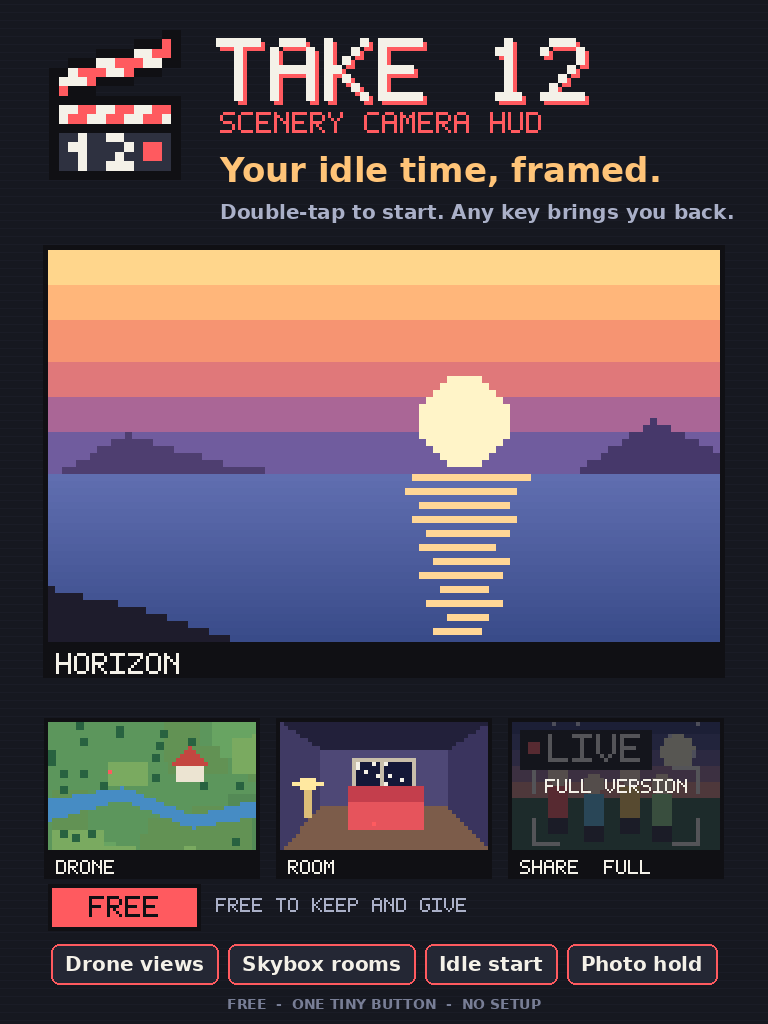
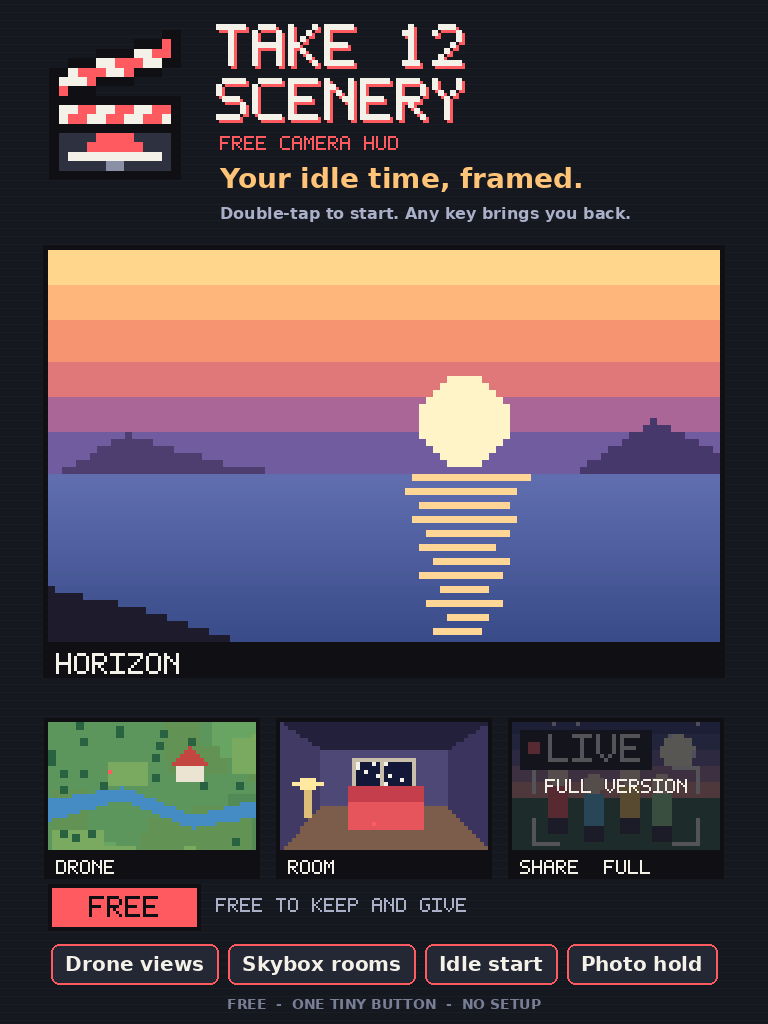
Take 12 Scenery: its own button, a sun setting on the slate
- make_icon.py: draw_scenery() (the Rec clapper with a coral sun on a chalk
  horizon in place of the 12), scenery/art sheet (one design in every look
  column, Take 12's layout) and a 128 px icon
- the free build leaves out the Button choice under Options > Look
- free boards: the sun clapper and TAKE 12 / SCENERY in two big lines
- docs and checks (sheet_test on both sheets, free_test, listing_check);
  Take 12's scripts, art and boards are unchanged

Claude-Session: https://claude.ai/code/session_017fxCDsK7kSKGLKYB8MXKf1

Changed region(s): [[0.2812, 0.0, 0.9375, 0.2188], [0.0938, 0.125, 0.2188, 0.1875]]

diff --git a/tools/art/make_adboard.py b/tools/art/make_adboard.py
@@ -32,7 +32,7 @@ CHIPS = ["Drone views", "Skybox rooms", "Share the view", "Your lens"]
 BG, PANEL, INK, CHALK, CORAL = (22, 24, 32), (36, 39, 52), (16, 16, 20), (244, 241, 232), (255, 90, 95)
 BOLD = "/usr/share/fonts/truetype/dejavu/DejaVuSans-Bold.ttf"
 FREE = False                      # main() runs the boards twice; True draws the free Take 12 Scenery versions
-FREE_DESCRIPTOR = "SCENERY CAMERA HUD"
+FREE_DESCRIPTOR = "FREE CAMERA HUD"       # under the two-line TAKE 12 / SCENERY title
 FREE_CHIPS = ["Drone views", "Skybox rooms", "Idle start", "Photo hold"]
 FREE_SMALL = "FREE  -  ONE TINY BUTTON  -  NO SETUP"
 FULL_ONLY = ("SHARE",)            # the view Take 12 Scenery does not have
@@ -194,8 +194,18 @@ def view(fn, gw, gh, scale, seed):
     return fn(gw, gh, random.Random(seed)).resize((gw * scale, gh * scale), Image.NEAREST)
 
 def clapper(px, v=icon.DEFAULT):
-    im = icon.frame_img(icon.draw(True, v)).resize((px, px), Image.NEAREST)
+    g = icon.draw_scenery(True) if FREE else icon.draw(True, v)       # Take 12 Scenery: the sun on its slate
+    im = icon.frame_img(g).resize((px, px), Image.NEAREST)
     return im
+
+def free_head(im, x, y, sc, gap, desc_sc, tag_sz, how_sz=0):
+    """the free boards' header: TAKE 12 / SCENERY in two big lines, the descriptor, the tagline (and the how-to)"""
+    d = ImageDraw.Draw(im)
+    ptext(im, (x, y), "TAKE 12", sc, CHALK, shadow=CORAL); y += 7 * sc + gap
+    ptext(im, (x, y), "SCENERY", sc, CHALK, shadow=CORAL); y += 7 * sc + gap + 4
+    ptext(im, (x + 4, y), FREE_DESCRIPTOR, desc_sc, CORAL); y += 7 * desc_sc + 12
+    d.text((x + 4, y), TAGLINE, font=font(tag_sz), fill=(255, 196, 120)); y += tag_sz + 14
+    if how_sz: d.text((x + 4, y), HOWTO, font=font(how_sz), fill=(170, 176, 200))
 
 def looks(base, x, y, px, gap):
     """the three clapper looks (classic, rec, viewfinder), open frame, left to right"""
@@ -245,8 +255,6 @@ def scene_img(lab, fn, gw, gh, sc, seed):
         ptext(im, ((im.width - pwidth("FULL VERSION", t)) // 2, im.height // 2 - 7 * t // 2), "FULL VERSION", t, CHALK)
     return im
 
-def desc(): return FREE_DESCRIPTOR if FREE else DESCRIPTOR
-
 def chips(base, y, items, size, x_left, x_right, gap=14, fill=CORAL):
     d = ImageDraw.Draw(base); f = font(size); widths = [d.textlength(t, font=f) + 28 for t in items]
     total = sum(widths) + gap * (len(items) - 1); x = x_left + ((x_right - x_left) - total) / 2
@@ -258,10 +266,12 @@ def square():
     S = 1024; im = Image.new("RGB", (S, S), BG); d = ImageDraw.Draw(im)
     for yy in range(0, S, 4): d.line([(0, yy), (S, yy)], fill=(26, 28, 38) if (yy // 4) % 2 else BG)   # faint scanlines
     im.paste(clapper(176), (44, 28), clapper(176))
-    ptext(im, (244, 44), NAME, 9, CHALK, shadow=CORAL)
-    ptext(im, (248, 118), desc(), 3, CORAL)
-    d.text((248, 160), TAGLINE, font=font(40), fill=(255, 196, 120))
-    d.text((248, 214), HOWTO, font=font(24), fill=(170, 176, 200))
+    if FREE: free_head(im, 244, 26, 7, 14, 2, 34, 20)
+    else:
+        ptext(im, (244, 44), NAME, 9, CHALK, shadow=CORAL)
+        ptext(im, (248, 118), DESCRIPTOR, 3, CORAL)
+        d.text((248, 160), TAGLINE, font=font(40), fill=(255, 196, 120))
+        d.text((248, 214), HOWTO, font=font(24), fill=(170, 176, 200))
     if FREE:
         ribbon(im, (664, 30, 984, 122)); ptext(im, (664, 138), "FREE TO KEEP AND GIVE", 2, (170, 176, 200))
     else:
@@ -280,9 +290,11 @@ def wide():
     W, H = 1024, 512; im = Image.new("RGB", (W, H), BG); d = ImageDraw.Draw(im)
     for yy in range(0, H, 4): d.line([(0, yy), (W, yy)], fill=(26, 28, 38) if (yy // 4) % 2 else BG)
     im.paste(clapper(128), (40, 30), clapper(128))
-    ptext(im, (192, 34), NAME, 7, CHALK, shadow=CORAL)
-    ptext(im, (196, 92), desc(), 2, CORAL)
-    d.text((196, 120), TAGLINE, font=font(32), fill=(255, 196, 120))
+    if FREE: free_head(im, 192, 22, 5, 10, 2, 26)
+    else:
+        ptext(im, (192, 34), NAME, 7, CHALK, shadow=CORAL)
+        ptext(im, (196, 92), DESCRIPTOR, 2, CORAL)
+        d.text((196, 120), TAGLINE, font=font(32), fill=(255, 196, 120))
     if FREE:
         ribbon(im, (716, 26, 980, 100)); ptext(im, (716, 114), "FREE TO KEEP AND GIVE", 2, (170, 176, 200))
     else:
@@ -310,9 +322,11 @@ def vendor():
     S = 1024; im = Image.new("RGB", (S, S), BG); d = ImageDraw.Draw(im)
     for yy in range(0, S, 4): d.line([(0, yy), (S, yy)], fill=(26, 28, 38) if (yy // 4) % 2 else BG)
     im.paste(clapper(150), (48, 34), clapper(150))
-    ptext(im, (232, 40), NAME, 11, CHALK, shadow=CORAL)
-    ptext(im, (236, 128), desc(), 3, CORAL)
-    d.text((236, 168), TAGLINE, font=font(38), fill=(255, 196, 120))
+    if FREE: free_head(im, 232, 24, 7, 14, 2, 30)
+    else:
+        ptext(im, (232, 40), NAME, 11, CHALK, shadow=CORAL)
+        ptext(im, (236, 128), DESCRIPTOR, 3, CORAL)
+        d.text((236, 168), TAGLINE, font=font(38), fill=(255, 196, 120))
     gw, gh, sc = 96, 56, 9                      # the hero: what you see on screen, with the HUD button top right
     hero = view(scene_wide, gw, gh, sc, 31)
     hx, hy = 80, 236
@@ -367,10 +381,12 @@ def portrait():
     """3:4 portrait (768 x 1024): header, one big view, three small views, chips"""
     W, H = 768, 1024; im, d = _base(W, H)
     im.paste(clapper(150), (40, 30), clapper(150))
-    ptext(im, (216, 38), NAME, 9, CHALK, shadow=CORAL)
-    ptext(im, (220, 112), desc(), 3, CORAL)
-    d.text((220, 150), TAGLINE, font=font(34), fill=(255, 196, 120))
-    d.text((220, 200), HOWTO, font=font(20), fill=(170, 176, 200))
+    if FREE: free_head(im, 216, 24, 6, 12, 2, 28, 16)
+    else:
+        ptext(im, (216, 38), NAME, 9, CHALK, shadow=CORAL)
+        ptext(im, (220, 112), DESCRIPTOR, 3, CORAL)
+        d.text((220, 150), TAGLINE, font=font(34), fill=(255, 196, 120))
+        d.text((220, 200), HOWTO, font=font(20), fill=(170, 176, 200))
     gw, gh, sc = 96, 56, 7; hx, hy = 48, 250                       # the hero view, 672 x 392
     paste_framed(im, scene_img("HORIZON", scene_wide, gw, gh, sc, 41), (hx, hy), border=5, label="HORIZON")
     small = [("DRONE", scene_drone), ("ROOM", scene_room), ("SHARE", scene_friends)]; gw2, gh2, sc2 = 52, 32, 4; y2 = 722
@@ -390,10 +406,12 @@ def landscape43():
     """4:3 landscape (1024 x 768): header row and four views"""
     W, H = 1024, 768; im, d = _base(W, H)
     im.paste(clapper(110), (40, 22), clapper(110))
-    ptext(im, (178, 26), NAME, 8, CHALK, shadow=CORAL)
-    ptext(im, (182, 90), desc(), 2, CORAL)
-    d.text((182, 112), TAGLINE, font=font(28), fill=(255, 196, 120))
-    d.text((182, 148), HOWTO, font=font(18), fill=(170, 176, 200))
+    if FREE: free_head(im, 178, 14, 5, 10, 2, 22)
+    else:
+        ptext(im, (178, 26), NAME, 8, CHALK, shadow=CORAL)
+        ptext(im, (182, 90), DESCRIPTOR, 2, CORAL)
+        d.text((182, 112), TAGLINE, font=font(28), fill=(255, 196, 120))
+        d.text((182, 148), HOWTO, font=font(18), fill=(170, 176, 200))
     if FREE: ribbon(im, (760, 26, 984, 96))
     else:
         looks(im, 700, 20, 82, 12)

diff --git a/tools/art/make_icon.py b/tools/art/make_icon.py
@@ -6,7 +6,8 @@
 
 Writes hud/art/take12_icon_sheet_512x256.png (upload this one: ALL looks, switchable from the
 menu), hud/art/variants/<look>_256x128.png (single-look, two frames), hud/art/preview.png, and the free
-Take 12 Watch HUD's icon, watch/art/take12_watch_icon_128.png (the clapper with an eye instead of "12").
+Take 12 Watch HUD's icon, watch/art/take12_watch_icon_128.png (the clapper with an eye instead of "12"), and
+Take 12 Scenery's sheet and icon in scenery/art/ (the clapper with a sun on the horizon instead of "12", one look).
 Pixels are scaled x8 with nearest-neighbour; the background is transparent.
 Edit the palette or the drawing below, re-run, re-upload.
 
@@ -136,6 +137,33 @@ def watch_icon():
     s.paste(frame_img(draw_watch()), (PAD, PAD))
     return s
 
+def draw_scenery(open_):
+    """Take 12 Scenery (the free scenery camera): the same clapper, rec look, with a coral sun setting on a chalk
+    horizon in place of the "12", and a faint reflection. Open and clapped, so the little clap still works."""
+    g = draw(open_, DEFAULT)
+    for y in range(11, 15):
+        for x in range(2, 14):
+            g[y][x] = "D"
+    S = ["....CCCC....", "...CCCCCC...", ".WWWWWWWWWW.", ".....HH....."]
+    for r, row in enumerate(S):
+        for c, ch in enumerate(row):
+            if ch != ".": g[11 + r][2 + c] = ch
+    return g
+
+def scenery_icon():
+    """128x128, transparent, the open frame, centred like the Take 12 frames (for the inventory and the boards)"""
+    s = Image.new("RGBA", (FRAME, FRAME), PAL["K"][:3] + (0,))
+    s.paste(frame_img(draw_scenery(True)), (PAD, PAD))
+    return s
+
+def scenery_sheet():
+    """the Take 12 sheet layout with ONE look: every look column holds the Scenery frames (open, clapped), so the
+    scripts' frame maths and any stored look show it; frames 6 and 7 stay empty"""
+    s = Image.new("RGBA", (SHEET_COLS * FRAME, SHEET_ROWS * FRAME), PAL["K"][:3] + (0,))
+    for k in range(6):
+        s.paste(frame_img(draw_scenery(k % 2 == 0)), ((k % SHEET_COLS) * FRAME + PAD, (k // SHEET_COLS) * FRAME + PAD))
+    return s
+
 LOOKS = ["classic", "rec", "viewfinder"]       # look number 0, 1, 2 (menu: Options > Look); 3 is spare
 SHEET_COLS, SHEET_ROWS = 4, 2
 
@@ -162,4 +190,8 @@ if __name__ == "__main__":
     wroot = os.path.join(root, "..", "..", "watch", "art")
     os.makedirs(wroot, exist_ok=True)
     watch_icon().save(os.path.join(wroot, "take12_watch_icon_128.png"))
-    print("wrote", os.path.normpath(os.path.join(root, "take12_icon_sheet_512x256.png")))
+    sroot = os.path.join(root, "..", "..", "scenery", "art")
+    os.makedirs(sroot, exist_ok=True)
+    scenery_sheet().save(os.path.join(sroot, "take12_scenery_icon_sheet_512x256.png"))
+    scenery_icon().save(os.path.join(sroot, "take12_scenery_icon_128.png"))
+    print("wrote", os.path.normpath(os.path.join(root, "take12_icon_sheet_512x256.png")), "and", os.path.normpath(sroot))

diff --git a/tools/sim/sheet_test.py b/tools/sim/sheet_test.py
@@ -5,23 +5,32 @@
 # 0..5 must hold a sprite, and frames 6 and 7 (spare) must be empty.
 import os
 from PIL import Image
-path = os.path.join(os.path.dirname(os.path.abspath(__file__)), "..", "..", "hud", "art", "take12_icon_sheet_512x256.png")
-im = Image.open(path).convert("RGBA"); W, H = im.size
-assert (W, H) == (512, 256), (W, H)
+R = os.path.join(os.path.dirname(os.path.abspath(__file__)), "..", "..")
+# the Take 12 sheet, and Take 12 Scenery's (6.1.0: the same layout, one design in every look column)
+SHEETS = [os.path.join(R, "hud", "art", "take12_icon_sheet_512x256.png"), os.path.join(R, "scenery", "art", "take12_scenery_icon_sheet_512x256.png")]
 def lsl_frame(k):                               # mirror of frame() in ui.lsl
     oy = 0.25
     if k > 3: oy = -0.25
     return 0.25, 0.5, ((k % 4) + 0.5) / 4.0 - 0.5, oy
 ok = True
-for k in range(8):
-    rx, ry, ox, oy = lsl_frame(k)
-    u0, u1 = ox + 0.5 - rx / 2, ox + 0.5 + rx / 2           # window in texture coordinates
-    v0, v1 = oy + 0.5 - ry / 2, oy + 0.5 + ry / 2           # v up from the bottom
-    box = (round(u0 * W), round((1 - v1) * H), round(u1 * W), round((1 - v0) * H))
-    want = ((k % 4) * 128, (k // 4) * 128, (k % 4) * 128 + 128, (k // 4) * 128 + 128)
-    solid = im.crop(box).getchannel("A").getbbox() is not None
-    good = box == want and solid == (k < 6)
-    ok &= good
-    print(f"frame {k}: window {box} {'==' if box == want else '!='} cell {want}, sprite {'yes' if solid else 'no '} {'ok' if good else 'FAIL'}")
+for path in SHEETS:
+  im = Image.open(path).convert("RGBA"); W, H = im.size
+  assert (W, H) == (512, 256), (path, W, H)
+  print(os.path.relpath(path, R))
+  for k in range(8):
+      rx, ry, ox, oy = lsl_frame(k)
+      u0, u1 = ox + 0.5 - rx / 2, ox + 0.5 + rx / 2           # window in texture coordinates
+      v0, v1 = oy + 0.5 - ry / 2, oy + 0.5 + ry / 2           # v up from the bottom
+      box = (round(u0 * W), round((1 - v1) * H), round(u1 * W), round((1 - v0) * H))
+      want = ((k % 4) * 128, (k // 4) * 128, (k % 4) * 128 + 128, (k // 4) * 128 + 128)
+      solid = im.crop(box).getchannel("A").getbbox() is not None
+      good = box == want and solid == (k < 6)
+      ok &= good
+      print(f"frame {k}: window {box} {'==' if box == want else '!='} cell {want}, sprite {'yes' if solid else 'no '} {'ok' if good else 'FAIL'}")
+sc = Image.open(SHEETS[1]).convert("RGBA")
+cells = [sc.crop(((k % 4) * 128, (k // 4) * 128, (k % 4) * 128 + 128, (k // 4) * 128 + 128)).tobytes() for k in range(6)]
+same = cells[0] == cells[2] == cells[4] and cells[1] == cells[3] == cells[5] and cells[0] != cells[1]
+ok &= same
+print("scenery: one design in every look column (open and clapped differ):", "ok" if same else "FAIL")
 print("sheet checks:", "ALL PASS" if ok else "FAILURES")
 raise SystemExit(0 if ok else 1)

diff --git a/tools/sim/free_test.py b/tools/sim/free_test.py
@@ -36,12 +36,17 @@ check('if (gIndoors == "outside") raw = FALSE;' in sc, "scenery: skybox rooms mu
 check("!LITE && gCuts % 4 == 3" in sc and "num == FAV && !LITE" in sc, "scenery: no favourites in the free build")
 check('if (LITE && (str == "personal" || str == "social" || str == "friends" || str == "frame" || str == "fav")) return;' in core,
       "core: the free build must refuse the other cameras")
+# its own button (scenery/art): one design, so no Button choice under Options > Look
+check('"th0"' not in ui and " · Button: " not in ui and "menu style, button" not in ui, "ui: the free build has one button design, no Button choice")
+readme = rd("scenery", "README.md")
+check("scenery/art/take12_scenery_icon_sheet_512x256.png" in readme and "hud/art/take12_icon_sheet" not in readme, "scenery/README.md must name the Scenery texture")
+check(os.path.exists(os.path.join(R, "scenery", "art", "take12_scenery_icon_sheet_512x256.png")), "the Scenery texture is missing")
 # the notecard the HUD looks for is the one shipped with it
 nc = re.search(r'string NOTECARD = "([^"]+)";', ui).group(1)
 check(nc == "Take 12 Scenery - Read Me" and "Read Me" in nc, f"ui: notecard name {nc}")
 check(os.path.exists(os.path.join(R, "scenery", "notecard", "read_me.txt")), "scenery/notecard/read_me.txt is missing")
 card = rd("scenery", "notecard", "read_me.txt")
-check(card.startswith("Take 12 Scenery") and "Lite" not in card and "HOLD" in card and "full Take 12" in card, "the free Read Me")
+check(card.startswith("Take 12 Scenery") and "Lite" not in card and "HOLD" in card and "full Take 12" in card and "Viewfinder" not in card, "the free Read Me")
 vers = {re.search(r'string VERSION = "([^"]+)";', rd("hud", "src", n)).group(1) for n in os.listdir(os.path.join(R, "hud", "src"))}
 check(len(vers) == 1, f"hud/src: every script must carry the same version (the ui warns otherwise): {vers}")
 # the tips keep their numbers (tips.lsl picks them by index)

diff --git a/tools/build_scenery.py b/tools/build_scenery.py
@@ -3,7 +3,8 @@
 
 Same code, four scripts: core, ui, scenery and tips. `integer LITE = 0;` becomes `= 1;` (core takes only the scenery
 camera, ui hides the other cameras and sharing and shows "More cameras", scenery keeps no favourites), and a few texts
-are swapped for the free build's own, so the full build carries none of them. people, friends, picker, frame, lens
+are swapped for the free build's own (and the Button choice is left out: it has one button design, scenery/art),
+so the full build carries none of them. people, friends, picker, frame, lens
 and sync are simply not part of it. Every substitution must match exactly once, so a change in hud/src that moves one
 fails here instead of shipping a stale text.
 
@@ -33,6 +34,10 @@ SUBS = {
         ('Camera · seated view, indoors, reach, Alt-cam, chat cuts', 'Camera · indoors, reach, Alt-cam'),
         ('"Seated view: " + seatText() + " · Indoors: "', '"Indoors: "'),
         ('+ "\\nChat cuts: " + onoff("chat_cuts") + " · Phantom: "', '+ "\\nPhantom: "'),
+        # one button design (scenery/art): no Button choice under Options > Look
+        ('Look · menu style, button, chat text', 'Look · menu style, status line, chat text'),
+        (' + " · Button: " + llList2String(["Classic", "Rec", "Viewfinder"], gLook)', ''),
+        ('b = ["sk0", "sk1", "sk2", "th0", "th1", "th2", "stline", "trace", "back"];', 'b = ["sk0", "sk1", "sk2", "stline", "trace", "back"];'),
     ],
     "tips.lsl": [
         ('"Take 12\\nTap: menu · Double-tap: scenery · Hold: share"', '"Take 12 Scenery\\nTap: menu · Double-tap: scenery"'),

diff --git a/tools/sim/listing_check.py b/tools/sim/listing_check.py
@@ -29,7 +29,7 @@ for w in ("Take 12 Watch", "free", "Nothing to click", "Double-tap", "do not nee
     check(w.lower() in watch.lower(), f"watch listing: missing '{w}'")
 for w in ("Take 12 Scenery", "Free", "L$0", "More cameras", "Double-tap", "skybox", "Idle start", "Photo hold", "full Take 12"):
     check(w in free, f"scenery listing: missing '{w}'")
-for w in ("Lite", "Hold: share", "SHARE THE VIEW"):
+for w in ("Lite", "Hold: share", "SHARE THE VIEW", "three looks"):
     check(w not in free, f"scenery listing: says '{w}' (it has no sharing, and the name Lite is not used)")
 check("Take 12 Scenery" in main, "listing: the full Take 12 should name its free companion")
 
@@ -72,6 +72,8 @@ SIZES = {("hud", "marketing", "adboard_square_1024.png"): (1024, 1024), ("hud", 
          ("watch", "marketing", "adboard_watch_1024.png"): (1024, 1024)}
 for (a, b, n), sz in list(SIZES.items()):
     if a == "hud": SIZES[("scenery", "marketing", n.replace(".png", "_scenery.png"))] = sz
+SIZES[("scenery", "art", "take12_scenery_icon_128.png")] = (128, 128)
+check("icon.draw_scenery(True) if FREE" in art and 'ptext(im, (x, y), "SCENERY", sc' in art, "free boards: the Scenery clapper and the TAKE 12 / SCENERY title")
 for p, sz in SIZES.items():
     path = os.path.join(R, *p)
     check(os.path.exists(path) and Image.open(path).size == sz, f"board {'/'.join(p)} missing or not {sz}")

diff --git a/scenery/README.md b/scenery/README.md
@@ -2,8 +2,9 @@
 
 The scenery camera of Take 12, on its own, for L$0: a free way in to the full Take 12.
 
-- **What it has:** the scenery camera (drone views, wide horizons, skybox rooms from the inside), idle start, tap / double-tap, Photo hold (hold the button while it rolls), Next, Stop, Pace, Indoors, Reach, Alt-cam, the three button looks, the status line with your lens, tips and the little clap.
-- **What it leaves to the full Take 12:** Me, Us, Still, sharing, favourite spots and the seated view.
+- **What it has:** the scenery camera (drone views, wide horizons, skybox rooms from the inside), idle start, tap / double-tap, Photo hold (hold the button while it rolls), Next, Stop, Pace, Indoors, Reach, Alt-cam, the menu styles, the status line with your lens, tips and the little clap.
+- **What it leaves to the full Take 12:** Me, Us, Still, sharing, favourite spots, the seated view and the three button looks.
+- **Its own button:** the Take 12 clapper (Rec look) with a coral sun setting on a chalk horizon in place of the "12", like the Watch's eye. One design; Options > Look has no Button choice.
 - **The one pointer:** a "More cameras" button on the main menu opens the full Take 12's Marketplace listing. Nothing else asks you to buy.
 - **Hold:** with no sharing, holding the button opens the menu (the live menu while it rolls: Photo, Next, Stop).
 
@@ -16,7 +17,7 @@ CI runs `python3 tools/build_scenery.py --check` (fails if `scenery/src` is out 
 
 ## Make it
 1. **Set the listing link first.** In `hud/src/ui.lsl`, set `BUY_URL` to the full Take 12's Marketplace page, then run `python3 tools/build_scenery.py`. (The full Take 12 never shows that button.)
-2. **The texture:** the same `hud/art/take12_icon_sheet_512x256.png` as Take 12 (already uploaded if you made Take 12).
+2. **The texture:** upload `scenery/art/take12_scenery_icon_sheet_512x256.png` (keep the alpha). It has the Take 12 sheet's layout, with the Scenery clapper (open and clapped) in every look column, so the scripts need nothing else. `scenery/art/take12_scenery_icon_128.png` is the same button on its own, for the Marketplace or a vendor. Both come from `python3 tools/art/make_icon.py`.
 3. **The prim:** one box, size `<0.01, 0.04, 0.04>`, named **Take 12 Scenery**, built exactly as Take 12 (see the main `README.md`, step 2).
 4. **The scripts:** the four from `scenery/src/`: `core`, `ui`, `scenery`, `tips`. Each prints a `ready` line with its free memory. Then Build › Scripts › Set Scripts to Running in Selection.
 5. **The notecard:** a notecard named `Take 12 Scenery - Read Me` with the text of `scenery/notecard/read_me.txt`.

diff --git a/CHANGELOG.md b/CHANGELOG.md
@@ -1,5 +1,12 @@
 # Changelog
 
+## Take 12 Scenery: its own button (no change to Take 12's scripts)
+- **The design:** the Take 12 clapper (Rec look, the same chalk and coral) with a coral sun setting on a chalk horizon, and a faint reflection, in place of the "12". It is the same family as the Watch and its eye: recognisable as Take 12, never mistaken for it. Open and clapped frames, so the little clap still works.
+- **One design:** `scenery/art/take12_scenery_icon_sheet_512x256.png` keeps the Take 12 sheet's layout, with the Scenery frames in every look column, so the scripts' frame maths work unchanged. The free build leaves out the Button choice under Options > Look (three build substitutions; `hud/src` is untouched, still 6.1.0). A 128 px icon is there too.
+- **Boards:** the free boards show the sun clapper and the full name, TAKE 12 / SCENERY, in two big lines, with "FREE CAMERA HUD" and the FREE ribbon. Take 12's and the Watch's boards are unchanged.
+- **Docs:** the build steps name the new texture; the Read Me and the listing describe the one button.
+- **Checks:** `sheet_test` runs the frame maths on both sheets and checks the Scenery columns match; `free_test` checks there is no Button choice and the README's texture; `listing_check` checks the free boards' clapper and title.
+
 ## 6.1.0
 **Take 12 Scenery: the scenery camera on its own, free.**
 - **What it is.** A free (L$0) HUD with the scenery camera of Take 12: drone views, wide horizons and skybox rooms from the inside, idle start, tap / double-tap, Photo hold, Next, Stop, Pace, Indoors, Reach, Alt-cam, the three button looks, the status line, tips and the little clap. Me, Us, Still, sharing, favourites and the seated view stay in the full Take 12. It replaces the old Lite, and the name Lite is gone.

diff --git a/README.md b/README.md
@@ -23,7 +23,7 @@ A one-button Second Life camera HUD that takes your view off your avatar's back 
 | `legacy/v1-v2/` | The old people-centred v1/v2 code and design (superseded) |
 | `tools/lslcheck.sh` | Compile check (LSL-PyOptimizer) plus a memory estimate for `hud/src`, the Watch, `scenery/src` and `legacy/v3/src` |
 | `tools/sim/` | Python ports of the camera maths, run in CI |
-| `tools/art/make_icon.py` | Generates the pixel clapper textures (Take 12 and the Take 12 Watch icon) |
+| `tools/art/make_icon.py` | Generates the pixel clapper textures (Take 12, the Take 12 Watch icon, and Take 12 Scenery's sun clapper in `scenery/art/`) |
 | `watch/` | The free Take 12 Watch HUD: its script, icon and build steps (`watch/README.md`) |
 | `tools/art/make_adboard.py` | Generates the Marketplace and vendor ad boards in `hud/marketing/`, `scenery/marketing/` and `watch/marketing/` |
 

diff --git a/scenery/marketing/marketplace_listing_scenery.md b/scenery/marketing/marketplace_listing_scenery.md
@@ -48,7 +48,7 @@ ALSO
 - Pace: 30 s to 2 min per view.
 - A quiet line above the button says when the camera runs, with your lens; nothing there means it is your own camera.
 - Short tips while you are new to it; they turn themselves off.
-- One small pixel-art clapper in three looks, with a tiny clap now and then while the camera runs.
+- One small pixel-art clapper with a sun setting on its slate, and a tiny clap now and then while the camera runs.
 
 WANT MORE CAMERAS?
 Take 12 Scenery is the scenery camera of Take 12. The full Take 12 adds Me (shots of you, following you), Us (you and the people around you, or only the friends you pick, in one frame), Still (a held picture of you, with the classic portrait lens), your lens in every camera, and Share the view: go live, and your friends watch your camera. Tap the button > More cameras.
